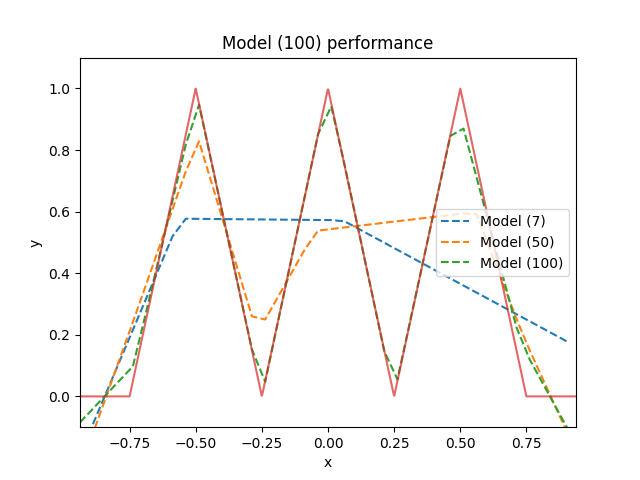
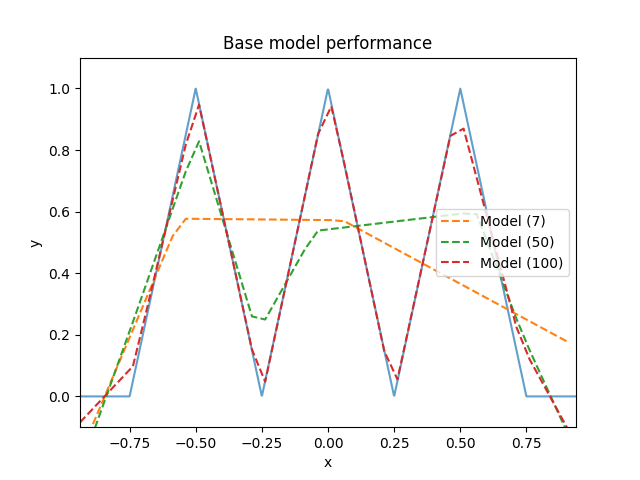
Added MSE calculator to spike plot

diff --git a/objects/Functions.py b/objects/Functions.py
@@ -28,17 +28,19 @@ class SpikeFunc:
         plt.figure()
         x = np.linspace(-self.span*1.25, self.span*1.25, resolution)
         y = np.array([self.func(xi) for xi in x])
-        for x_out, y_out, label in output_data: 
-            plt.plot(x_out, y_out, '--', label=label, alpha=0.98)
         
-        if len(output_data)> 1:
-            plt.legend()
 
         plt.ylim(-0.1 * self.amplitude, 1.1 * self.amplitude)
         plt.xlim(-self.span*1.25, self.span*1.25)
         plt.plot(x, y, linewidth='1.5', alpha=0.7)
         plt.xlabel('x')
         plt.ylabel('y')
+        if output_data is not None:
+            for x_out, y_out, label in output_data: 
+                plt.plot(x_out, y_out, '--', label=label, alpha=0.98)
+        
+            if len(output_data)> 1:
+                plt.legend()
         if plot_title is None:
             plt.title(f'Spike Function (span={self.span}, spikes={self.spikes}, amplitude={self.amplitude})')
         else:
@@ -48,3 +50,9 @@ class SpikeFunc:
             plt.savefig(save_path)
         
         plt.show()
+    
+
+    def mse(self, X, Y_predict):
+        # actual_y = self.func(X)
+        actual_y = np.array([self.func(xi) for xi in X])
+        return np.mean((actual_y - Y_predict) **2 )